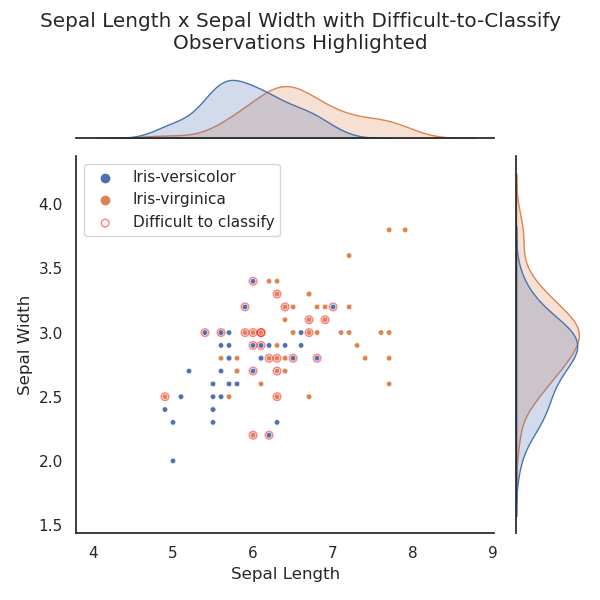
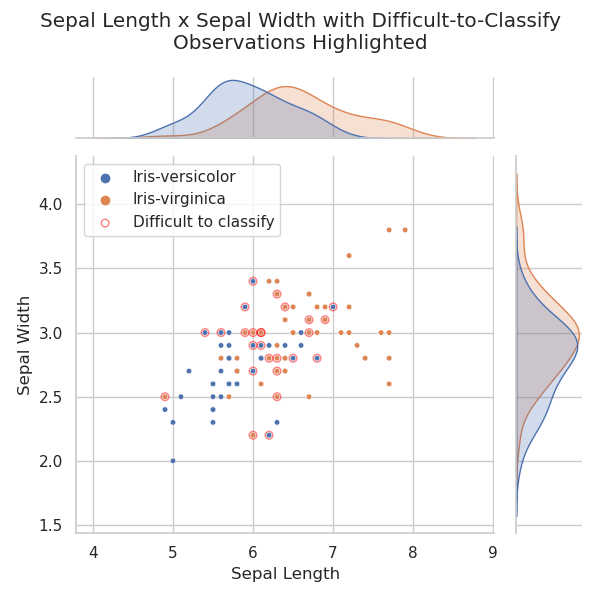
added grids to jointplots

diff --git a/analysis_plots.py b/analysis_plots.py
@@ -83,7 +83,7 @@ def stripplot(data=None, title=None, filename=None):
 # Stripplot
 
     plt.clf()
-    sns.set_style("white")
+    sns.set_style("whitegrid")
     h = sns.stripplot(data=data, 
                       y="value", 
                       x="variable", 
